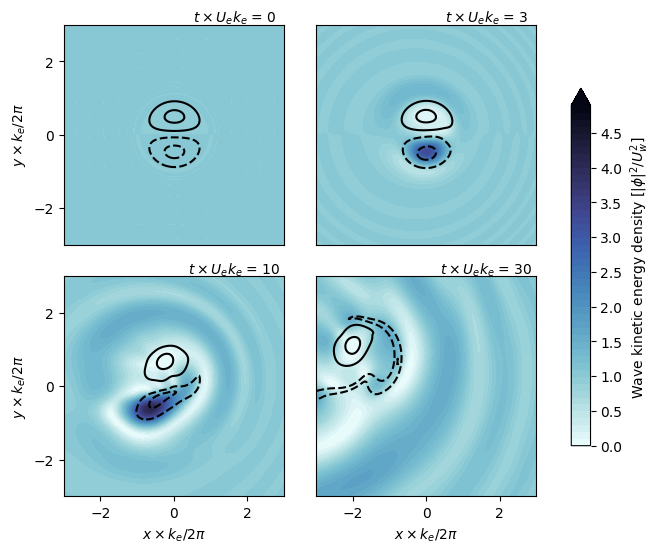
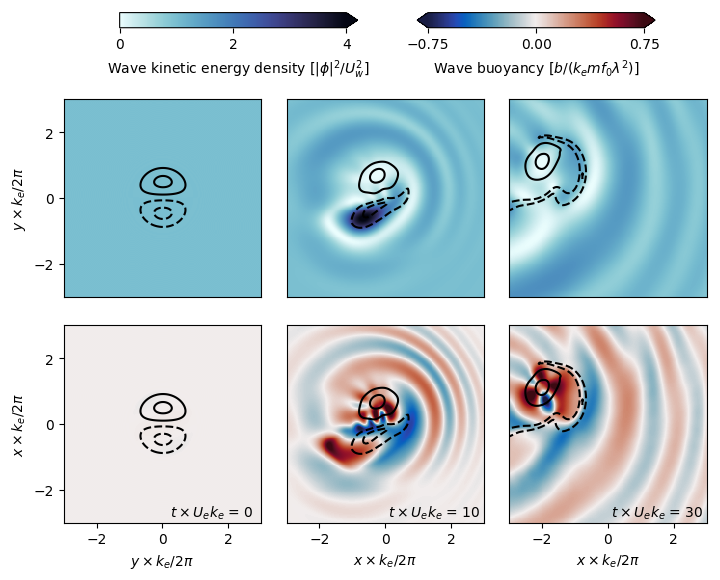
New Lamb Dipole figure

diff --git a/code/Figure1.py b/code/Figure1.py
@@ -1,6 +1,5 @@
 """
-    Plots figure 1: snapshots vorticity and near-inertial
-                    kinetic energy density of the Lamb-Chapygin dipole solution.
+    Plots figure 1: snapshots of the Lamb-Chapygin dipole solution.
 """
 
 import h5py
@@ -9,11 +8,6 @@ import matplotlib.pyplot as plt
 import cmocean
 
 from Utils import *
-
-#plt.rcParams["font.family"] = "sans-serif"
-#plt.rcParams["font.sans-serif"] = "Times"
-#%plt.rcParams["font.serif"] = "Times"
-#plt.rcParams["font.weight"] = "medium"
 
 plt.close('all')
 
@@ -25,6 +19,12 @@ params = h5py.File(pathi+"parameters.h5","r")
 Ue, ke = params['dimensional/Ue'][()], params['dimensional/ke'][()]
 Te = params['dimensional/Te'][()]
 Uw = params['dimensional/Uw'][()]
+f0 = params['dimensional/f0'][()]
+m = params['dimensional/m'][()]
+N0 = params['dimensional/N'][()]
+nu4w = params['dimensional/nu4'][()]
+lam2  = (N0/f0/m)**2
+lam  = np.sqrt(lam2)
 
 ## get grid
 setup = h5py.File(pathi+"setup.h5","r")
@@ -32,11 +32,13 @@ x, y = setup['grid/x'][:]*ke/(2*np.pi), setup['grid/y'][:]*ke/(2*np.pi)
 x -= x.mean()
 y -= y.mean()
 
-#files = ['000000000016667.h5', '000000001333333.h5',
+k, l = setup['grid/k'][:], setup['grid/l'][:]
+k, l = np.meshgrid(k,l)
+
+#files = ['000000000016667.h5', '000000000900000.h5',
 #            '000000002666667.h5', '000000008000000.h5']
 
-files = ['000000000016667.h5', '000000000900000.h5',
-            '000000002666667.h5', '000000008000000.h5']
+files = ['000000000016667.h5','000000002666667.h5', '000000008000000.h5']
 
 
 def plot_snapshot(fig, snap, panel = 1):
@@ -46,54 +48,66 @@ def plot_snapshot(fig, snap, panel = 1):
     t = snap['t'][()]/Te
     q = snap['q'][:]/(Ue*ke)
     phi2 = np.abs(snap['phi'])**2/Uw**2
+    uw, vw, ww, pw, bw = wave_fields(snap['phi'][:],f0,lam2,snap['t'][()],k,l,m)
 
-    ax = fig.add_subplot(2,2,panel,aspect=1)
-    pc = ax.contourf(x,y, phi2,cphi,vmin=cphi.min(),vmax=cphi.max(),extend='max',
+    ax = fig.add_subplot(2,3,panel,aspect=1)
+    fig.subplots_adjust(wspace=.045)
+    fig.subplots_adjust(hspace=.145)
+    pc1 = ax.pcolor(x,y, phi2,vmin=cphi.min(),vmax=cphi.max(),
                      cmap = cmocean.cm.ice_r)
     ax.contour(x,y, q, cq,colors='k')
     ax.set_xlim(xlim[0],xlim[1])
     ax.set_ylim(xlim[0],xlim[1])
 
+    ax2 = fig.add_subplot(2,3,panel+3,aspect=1)
+    pc2 = ax2.pcolor(x,y, bw/Uw/m/(f0*lam2)/ke,vmin=cb.min(),vmax=cb.max(),
+                     cmap = cmocean.cm.balance)
+    ax2.contour(x,y, q, cq,colors='k')
+    ax2.set_xlim(xlim[0],xlim[1])
+    ax2.set_ylim(xlim[0],xlim[1])
+
     if panel == 1:
         ax.set_xticks([])
         ax.set_yticks([-2,0,2])
         ax.set_ylabel(r"$y\times k_e/2\pi$")
-        fig.subplots_adjust(wspace=.145)
-    elif panel == 2:
+        ax2.set_yticks([-2,0,2])
+        ax2.set_ylabel(r"$x\times k_e/2\pi$")
+        ax2.set_xlabel(r"$y\times k_e/2\pi$")
+    elif panel == 2 or panel == 3:
         ax.set_xticks([])
         ax.set_yticks([])
-        fig.subplots_adjust(hspace=.01)
-    elif panel == 3:
-        ax.set_yticks([-2,0,2])
-        ax.set_xticks([-2,0,2])
-        ax.set_xlabel(r"$x\times k_e/2\pi$")
-        ax.set_ylabel(r"$y\times k_e/2\pi$")
-    elif panel == 4:
-        ax.set_yticks([])
-        ax.set_xticks([-2,0,2])
-        ax.set_xlabel(r"$x\times k_e/2\pi$")
+        ax2.set_xticks([-2,0,2])
+        ax2.set_yticks([])
+        ax2.set_xlabel(r"$x\times k_e/2\pi$")
     else:
         pass
 
-    plot_fig_label(ax, xc =0.775, yc=1.03, label= r"$t \times U_e k_e$ = "+
+    plot_fig_label(ax2, xc =0.75, yc=.05, label= r"$t \times U_e k_e$ = "+
                     str(int(round(t))), facecolor="1.0",boxstyle=None,alpha=0.)
 
-    return pc
+    return pc1, pc2
 
-cphi = np.arange(0.,5.,0.1)
+cphi = np.arange(0.,4.1,0.1)
+cb = np.arange(-.75,.85,0.1)
 cq   = np.array([-1.5,-0.5,0.5,1.5])
 
 xlim = [-3,3]
-fig = plt.figure(figsize=(7.,6.5))
+fig = plt.figure(figsize=(8.5,5.5))
 
 panel = 1
 for fni in files:
     snap = h5py.File(pathi+"snapshots/"+fni)
-    im = plot_snapshot(fig, snap, panel)
+    im1, im2 = plot_snapshot(fig, snap, panel)
     panel += 1
 
 # colorbar
-fig.subplots_adjust(right=0.8)
-cbar_ax = fig.add_axes([0.85, 0.21, 0.0275, 0.55])
-fig.colorbar(im, cax=cbar_ax,label=r"Wave kinetic energy density $[|\phi|^2/U_w^2]$")
-plt.savefig(patho+"fig1.png", bbox_inches='tight')
+#fig.subplots_adjust(right=0.8)
+cbar_ax = fig.add_axes([0.2, 1.01, 0.28, 0.0275])
+fig.colorbar(im1, cax=cbar_ax,label=r"Wave kinetic energy density $[|\phi|^2/U_w^2]$",
+                    orientation='horizontal', ticks=[0.,2.,4.],extend='max')
+cbar_ax = fig.add_axes([0.55, 1.01, 0.28, 0.0275])
+fig.colorbar(im2, cax=cbar_ax,label=r"Wave buoyancy $[b/(k_e m f_0 \lambda^2)]$",
+                    orientation='horizontal',ticks=[-.75,0.,.75],extend='both')
+
+
+plt.savefig(patho+"fig1.png", pad_inces=0, bbox_inches='tight')

diff --git a/code/Utils.py b/code/Utils.py
@@ -4,6 +4,7 @@
 #
 
 import matplotlib.pyplot as plt
+import numpy as np
 
 def save_parameters(model):
     """ Save simulation parameters """
@@ -38,3 +39,37 @@ def plot_fig_label(ax, xc=.95, yc=0.075 ,label="a",boxstyle='circle',
                                                     facecolor=facecolor,
                                                     edgecolor=edgecolor,
                                                     alpha=alpha))
+
+def wave_fields(phi,f0,lam2,t,k,l,m,z=0):
+    """ Calculate near-inertial fields """
+    
+    phase = m*z - f0*t 
+    phih = np.fft.fft2(phi)
+    phi_phase = phi*np.exp(1j*phase)
+
+    phix, phiy = np.fft.ifft2(1j*k*phih), np.fft.ifft2(1j*l*phih)
+
+    dphi = phix+1j*phiy
+
+    u, v = phi_phase.real, phi_phase.imag
+    b = np.real(m*f0*lam2*dphi*np.exp(1j*phase))
+    p = np.real(1j*f0*lam2*dphi*np.exp(1j*phase))
+    w = np.real(1j*dphi*np.exp(1j*phase)/m)
+
+    return u, v, w, p ,b
+
+
+def balanced_fields(q,k,l,f0):
+    """ Calculates balanced fields """
+    wv2 = k**2 + l**2
+    wv2i = wv2**-1
+    wv2i[0,0] = 0.
+
+    qh = np.fft.fft2(q)
+    ph  = -wv2i*qh
+    u,v = np.fft.ifft2(-1j*l*ph).real, np.fft.ifft2(1j*k*ph).real
+    p = f0*np.fft.ifft2(ph).real
+
+    return u, v, p
+
+
